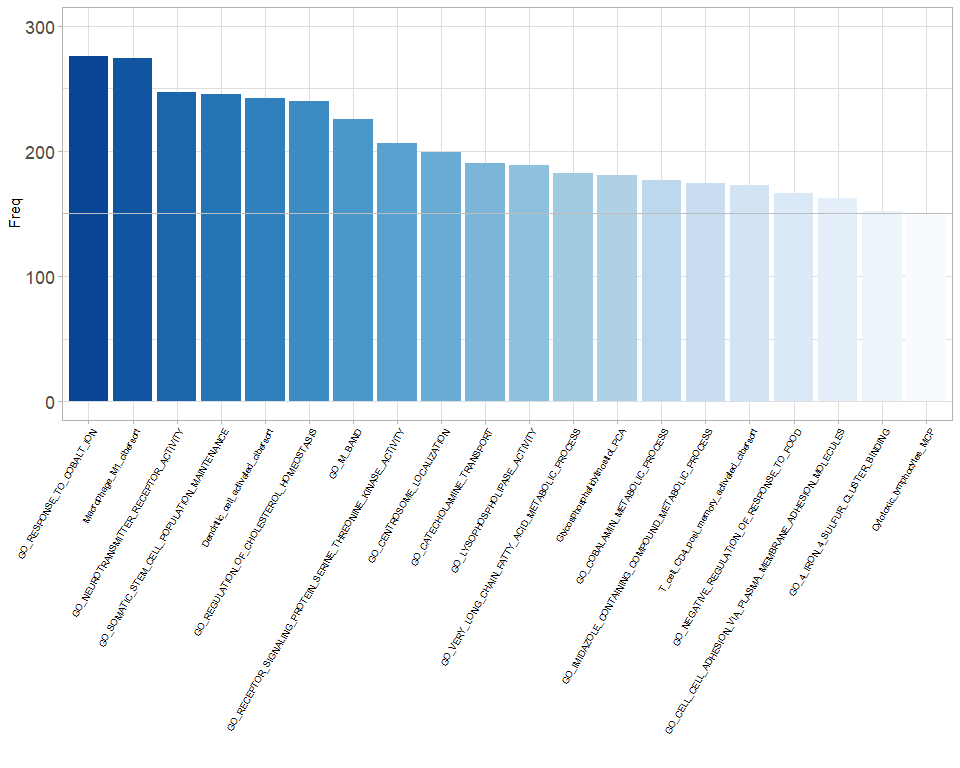
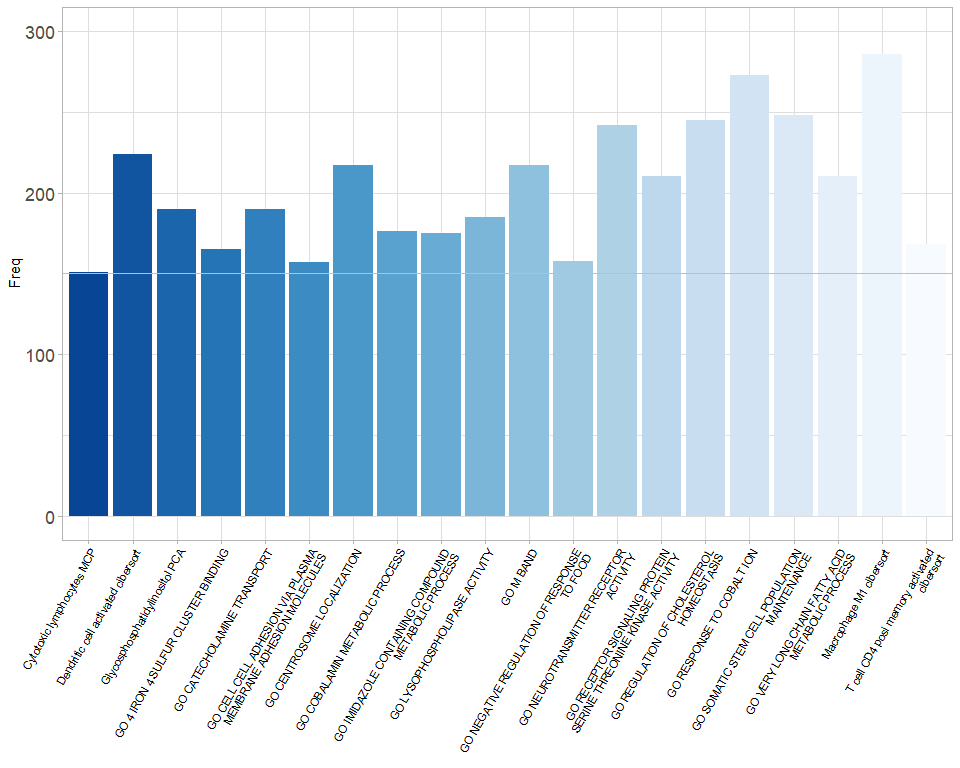
update plot function

diff --git a/README.md b/README.md
@@ -67,16 +67,16 @@ res<-best_predictor_cox(target_data = target,
 ``` r
 head(res$res, n = 10)
 #>                                                             res Freq
-#> 1                                       Macrophage_M1_cibersort  264
-#> 2                                     GO_RESPONSE_TO_COBALT_ION  242
-#> 3                         GO_NEUROTRANSMITTER_RECEPTOR_ACTIVITY  212
-#> 4                      GO_REGULATION_OF_CHOLESTEROL_HOMEOSTASIS  208
-#> 5            GO_IMIDAZOLE_CONTAINING_COMPOUND_METABOLIC_PROCESS  200
-#> 6                            Dendritic_cell_activated_cibersort  183
-#> 7                                Glycosphosphatidylinositol_PCA  179
-#> 8  GO_CELL_CELL_ADHESION_VIA_PLASMA_MEMBRANE_ADHESION_MOLECULES  167
-#> 9                GO_REGULATION_OF_DEFENSE_RESPONSE_TO_BACTERIUM  153
-#> 10                   T_cell_CD4_posi_memory_activated_cibersort  148
+#> 1                                       Macrophage M1 cibersort  275
+#> 2                                     GO RESPONSE TO COBALT ION  246
+#> 3                      GO REGULATION OF CHOLESTEROL HOMEOSTASIS  207
+#> 4                            Dendritic cell activated cibersort  203
+#> 5                         GO NEUROTRANSMITTER RECEPTOR ACTIVITY  201
+#> 6                                Glycosphosphatidylinositol PCA  198
+#> 7            GO IMIDAZOLE CONTAINING COMPOUND METABOLIC PROCESS  183
+#> 8  GO CELL CELL ADHESION VIA PLASMA MEMBRANE ADHESION MOLECULES  170
+#> 9                    GO NEGATIVE REGULATION OF RESPONSE TO FOOD  164
+#> 10               GO REGULATION OF DEFENSE RESPONSE TO BACTERIUM  160
 ```
 
 ## Usage-2: Binomial model
@@ -96,16 +96,16 @@ res<-best_predictor_binomial(target_data = target,
 ``` r
 head(res$res, n = 10)
 #>                                                               res Freq
-#> 2                                       GO_RESPONSE_TO_COBALT_ION  276
-#> 3                                         Macrophage_M1_cibersort  274
-#> 4                           GO_NEUROTRANSMITTER_RECEPTOR_ACTIVITY  247
-#> 5                     GO_SOMATIC_STEM_CELL_POPULATION_MAINTENANCE  245
-#> 6                              Dendritic_cell_activated_cibersort  242
-#> 7                        GO_REGULATION_OF_CHOLESTEROL_HOMEOSTASIS  240
-#> 8                                                       GO_M_BAND  225
-#> 9  GO_RECEPTOR_SIGNALING_PROTEIN_SERINE_THREONINE_KINASE_ACTIVITY  206
-#> 10                                     GO_CENTROSOME_LOCALIZATION  199
-#> 11                                     GO_CATECHOLAMINE_TRANSPORT  190
+#> 2                                         Macrophage M1 cibersort  286
+#> 3                                       GO RESPONSE TO COBALT ION  273
+#> 4                     GO SOMATIC STEM CELL POPULATION MAINTENANCE  248
+#> 5                        GO REGULATION OF CHOLESTEROL HOMEOSTASIS  245
+#> 6                           GO NEUROTRANSMITTER RECEPTOR ACTIVITY  242
+#> 7                              Dendritic cell activated cibersort  224
+#> 8                                      GO CENTROSOME LOCALIZATION  217
+#> 9                                                       GO M BAND  217
+#> 10 GO RECEPTOR SIGNALING PROTEIN SERINE THREONINE KINASE ACTIVITY  210
+#> 11                GO VERY LONG CHAIN FATTY ACID METABOLIC PROCESS  210
 ```
 
 ## Session Info
@@ -114,7 +114,7 @@ head(res$res, n = 10)
 sessionInfo()
 #> R version 3.6.3 (2020-02-29)
 #> Platform: x86_64-w64-mingw32/x64 (64-bit)
-#> Running under: Windows 10 x64 (build 18363)
+#> Running under: Windows 10 x64 (build 19041)
 #> 
 #> Matrix products: default
 #> 
@@ -129,25 +129,26 @@ sessionInfo()
 #> [1] stats     graphics  grDevices utils     datasets  methods   base     
 #> 
 #> other attached packages:
-#> [1] Blasso_0.1.0       progress_1.2.2     RColorBrewer_1.1-2 survival_3.2-3    
-#> [5] tibble_3.0.3       ggplot2_3.3.2      glmnet_4.0-2       Matrix_1.2-18     
+#> [1] Blasso_0.1.0       stringr_1.4.0      progress_1.2.2     RColorBrewer_1.1-2
+#> [5] survival_3.2-3     tibble_3.0.3       ggplot2_3.3.3      glmnet_4.0-2      
+#> [9] Matrix_1.2-18     
 #> 
 #> loaded via a namespace (and not attached):
-#>  [1] shape_1.4.4       tidyselect_1.1.0  xfun_0.16         remotes_2.2.0    
-#>  [5] purrr_0.3.4       splines_3.6.3     lattice_0.20-41   generics_0.0.2   
-#>  [9] colorspace_1.4-1  vctrs_0.3.2       testthat_2.3.2    usethis_1.6.1    
-#> [13] htmltools_0.5.0   yaml_2.2.1        rlang_0.4.8       pkgbuild_1.1.0   
-#> [17] pillar_1.4.6      glue_1.4.2        withr_2.3.0       sessioninfo_1.1.1
-#> [21] foreach_1.5.0     lifecycle_0.2.0   stringr_1.4.0     munsell_0.5.0    
-#> [25] gtable_0.3.0      devtools_2.3.1    codetools_0.2-16  memoise_1.1.0    
-#> [29] evaluate_0.14     labeling_0.3      knitr_1.29        callr_3.4.3      
-#> [33] ps_1.3.4          fansi_0.4.1       backports_1.1.8   scales_1.1.1     
-#> [37] desc_1.2.0        pkgload_1.1.0     farver_2.0.3      fs_1.4.2         
-#> [41] hms_0.5.3         digest_0.6.25     stringi_1.5.3     processx_3.4.3   
-#> [45] dplyr_1.0.0       grid_3.6.3        rprojroot_1.3-2   cli_2.0.2        
-#> [49] tools_3.6.3       magrittr_1.5      crayon_1.3.4      pkgconfig_2.0.3  
-#> [53] ellipsis_0.3.1    prettyunits_1.1.1 assertthat_0.2.1  rmarkdown_2.3    
-#> [57] iterators_1.0.12  R6_2.4.1          compiler_3.6.3
+#>  [1] shape_1.4.5       tidyselect_1.1.0  xfun_0.16         remotes_2.2.0    
+#>  [5] purrr_0.3.4       splines_3.6.3     lattice_0.20-41   generics_0.1.0   
+#>  [9] colorspace_1.4-1  vctrs_0.3.2       testthat_2.3.2    usethis_2.0.0    
+#> [13] htmltools_0.5.0   yaml_2.2.1        rlang_0.4.8       pkgbuild_1.2.0   
+#> [17] pillar_1.4.7      glue_1.4.2        withr_2.3.0       sessioninfo_1.1.1
+#> [21] foreach_1.5.1     lifecycle_0.2.0   munsell_0.5.0     gtable_0.3.0     
+#> [25] devtools_2.3.2    codetools_0.2-18  memoise_1.1.0     evaluate_0.14    
+#> [29] labeling_0.4.2    knitr_1.30        callr_3.5.1       ps_1.5.0         
+#> [33] fansi_0.4.1       scales_1.1.1      desc_1.2.0        pkgload_1.1.0    
+#> [37] farver_2.0.3      fs_1.4.2          hms_0.5.3         digest_0.6.25    
+#> [41] stringi_1.5.3     processx_3.4.5    dplyr_1.0.2       grid_3.6.3       
+#> [45] rprojroot_2.0.2   cli_2.2.0         tools_3.6.3       magrittr_2.0.1   
+#> [49] crayon_1.3.4      pkgconfig_2.0.3   ellipsis_0.3.1    prettyunits_1.1.1
+#> [53] assertthat_0.2.1  rmarkdown_2.6     iterators_1.0.13  R6_2.5.0         
+#> [57] compiler_3.6.3
 ```
 
 ## References
